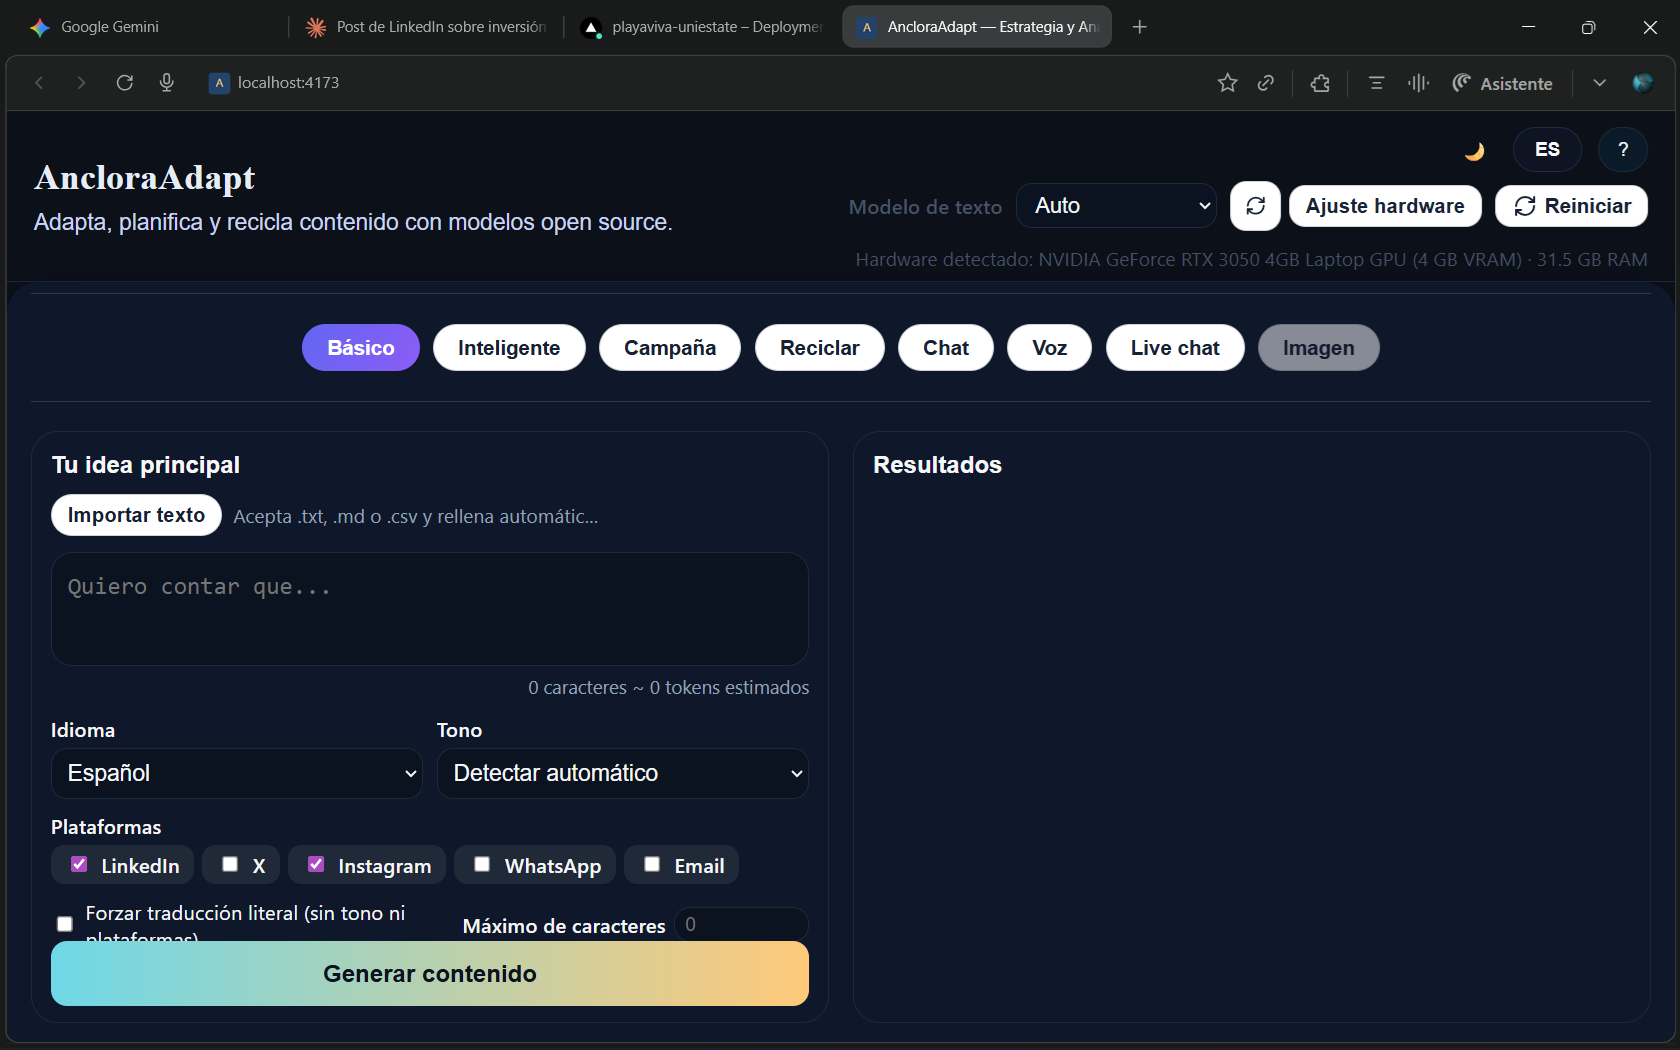
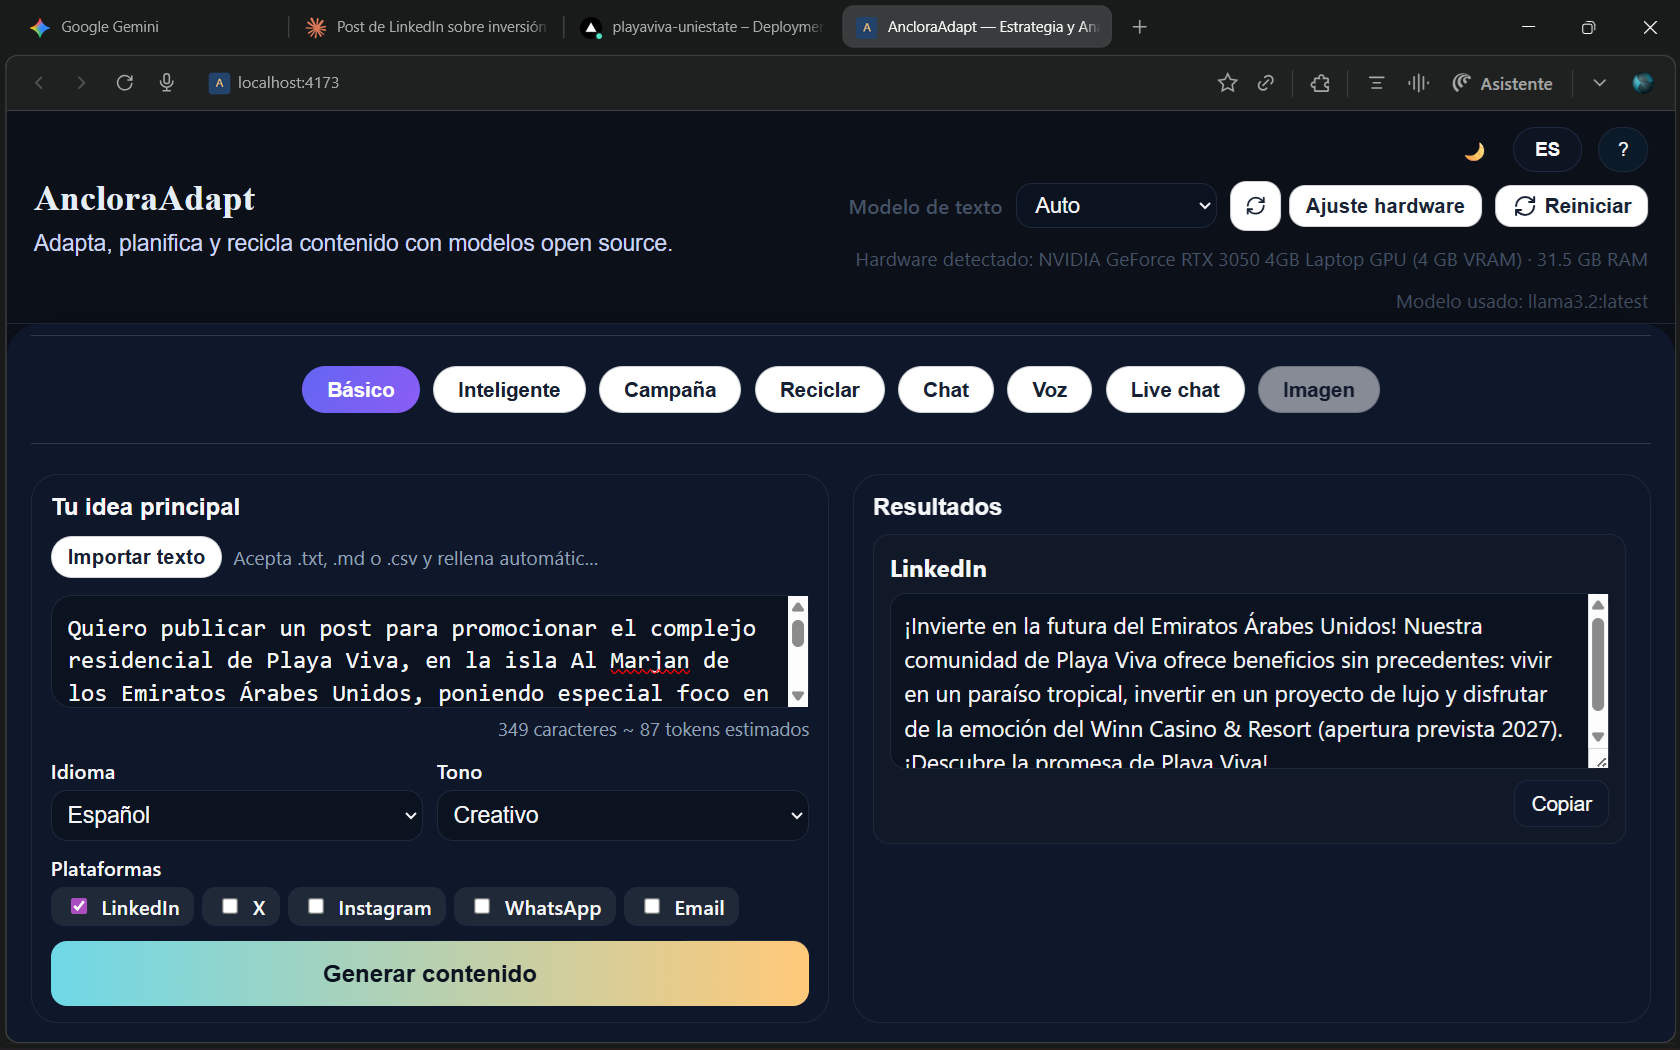
- Evité que la barra superior empuje al modo Básico cuando aparece el “Modelo usado”: la     información de hardware y del modelo se muestra ahora en la misma fila que los botones,     de modo que “Forzar traducción” y “Max. carac.” ya no desaparecen (src/components/layout/     MainLayout.tsx, src/s

diff --git a/src/components/layout/MainLayout.tsx b/src/components/layout/MainLayout.tsx
@@ -146,7 +146,7 @@ const MainLayout: React.FC<MainLayoutProps> = ({
           </div>
 
           <div style={commonStyles.settingsBar}>
-            <div style={{ display: "flex", alignItems: "center", gap: "6px" }}>
+            <div style={{ display: "flex", alignItems: "center", gap: "6px", flexWrap: "wrap" }}>
               <label
                 htmlFor="text-model-select"
                 style={{ ...commonStyles.settingsLabel, marginRight: "4px" }}
@@ -173,7 +173,26 @@ const MainLayout: React.FC<MainLayoutProps> = ({
               </select>
             </div>
 
-            <div style={{ display: "flex", alignItems: "center", gap: "6px" }}>
+            <div
+              style={{
+                display: "flex",
+                alignItems: "center",
+                gap: "8px",
+                flexWrap: "wrap",
+                justifyContent: "flex-end",
+                marginLeft: "auto",
+              }}
+            >
+              {hardwareSummary && (
+                <span style={{ ...commonStyles.settingsHint, marginRight: "4px" }}>
+                  {(modelCopy.hardwareDetected || "Hardware detectado")}: {hardwareSummary}
+                </span>
+              )}
+              {lastModelUsed && (
+                <span style={{ ...commonStyles.settingsHint, marginRight: "4px" }}>
+                  {(modelCopy.lastUsed || "Modelo usado")}: {lastModelUsed}
+                </span>
+              )}
               <button
                 type="button"
                 style={{
@@ -216,35 +235,20 @@ const MainLayout: React.FC<MainLayoutProps> = ({
                   ? modelCopy.hardwareAdjusting
                   : modelCopy.hardwareAdjust}
               </button>
+              <button
+                type="button"
+                style={{ ...commonStyles.resetButton, padding: "6px 12px" }}
+                onClick={onReset}
+                title={modelCopy.reset}
+                aria-label={modelCopy.reset}
+              >
+                <RefreshCw size={18} />
+                <span>
+                  {language === "es" ? "Reiniciar" : "Reset"}
+                </span>
+              </button>
             </div>
-
-            <button
-              type="button"
-              style={{ ...commonStyles.resetButton, padding: "6px 12px" }}
-              onClick={onReset}
-              title={modelCopy.reset}
-              aria-label={modelCopy.reset}
-            >
-              <RefreshCw size={18} />
-              <span>
-                {language === "es" ? "Reiniciar" : "Reset"}
-              </span>
-            </button>
           </div>
-          {(hardwareSummary || lastModelUsed) && (
-            <div style={commonStyles.settingsInfoRow}>
-              {hardwareSummary && (
-                <span style={commonStyles.settingsHint}>
-                  {(modelCopy.hardwareDetected || "Hardware detectado")}: {hardwareSummary}
-                </span>
-              )}
-              {lastModelUsed && (
-                <span style={commonStyles.settingsHint}>
-                  {(modelCopy.lastUsed || "Modelo usado")}: {lastModelUsed}
-                </span>
-              )}
-            </div>
-          )}
         </div>
       </header>
 

diff --git a/src/App.tsx b/src/App.tsx
@@ -155,6 +155,53 @@ const filterOutputsByPlatforms = (
   return filtered.length ? filtered : outputs;
 };
 
+const LANGUAGE_QUALITY_LABELS: Record<string, string> = {
+  es: "español",
+  en: "inglés",
+  fr: "francés",
+  de: "alemán",
+  pt: "portugués",
+  it: "italiano",
+  zh: "chino",
+  ja: "japonés",
+  ru: "ruso",
+};
+
+const describeLanguageForPrompt = (code?: string) => {
+  if (!code || code === "detect") {
+    return "el idioma solicitado";
+  }
+  return LANGUAGE_QUALITY_LABELS[code] || code;
+};
+
+const enforceLanguageQuality = async (
+  outputs: GeneratedOutput[],
+  languageCode: string | undefined,
+  modelId: string,
+  generateFn: (prompt: string, model: string) => Promise<string>
+): Promise<GeneratedOutput[]> => {
+  if (!outputs.length || !languageCode || languageCode === "detect") {
+    return outputs;
+  }
+  try {
+    const descriptor = describeLanguageForPrompt(languageCode);
+    const payload = JSON.stringify({ outputs });
+    const prompt = `Actúa como revisor nativo de ${descriptor}. Corrige ortografía, gramática y coherencia manteniendo el mismo significado y tono. Si algún texto no está en ${descriptor}, tradúcelo correctamente. Respeta exactamente la cantidad de entradas y nombres de plataforma. Devuelve exclusivamente JSON válido con la misma estructura de la entrada. Texto a revisar: ${payload}`;
+    const raw = await generateFn(prompt, modelId);
+    const parsed = JSON.parse(extractJsonPayload(raw));
+    const normalized = normalizeOutputs(parsed);
+    if (normalized.length === outputs.length) {
+      return normalized;
+    }
+    if (normalized.length) {
+      return normalized;
+    }
+  } catch (err) {
+    console.warn("Language quality enforcement failed", err);
+  }
+  return outputs;
+};
+
 const speakWithBrowserTts = async (text: string, language: string) => {
   if (typeof window === "undefined" || !window.speechSynthesis) {
     throw new Error("speechSynthesis no está disponible en este navegador.");
@@ -503,7 +550,13 @@ Responde estrictamente en formato JSON siguiendo este ejemplo: ${structuredOutpu
               normalized,
               context?.allowedPlatforms
             );
-            filtered.forEach(addOutput);
+            const polished = await enforceLanguageQuality(
+              filtered,
+              context?.targetLanguage,
+              candidate,
+              callTextModel
+            );
+            (polished.length ? polished : filtered).forEach(addOutput);
             setLastModelUsed(candidate);
             lastError = null;
             return;

diff --git a/src/styles/commonStyles.ts b/src/styles/commonStyles.ts
@@ -454,15 +454,7 @@ const commonStyles: Record<string, React.CSSProperties> = {
     alignItems: "center",
     gap: "10px",
     flexWrap: "wrap",
-    justifyContent: "flex-end",
-  },
-  settingsInfoRow: {
-    width: "100%",
-    display: "flex",
-    justifyContent: "flex-end",
-    gap: "12px",
-    flexWrap: "wrap",
-    marginTop: "4px",
+    justifyContent: "space-between",
   },
   settingsHint: {
     fontSize: "0.8rem",
